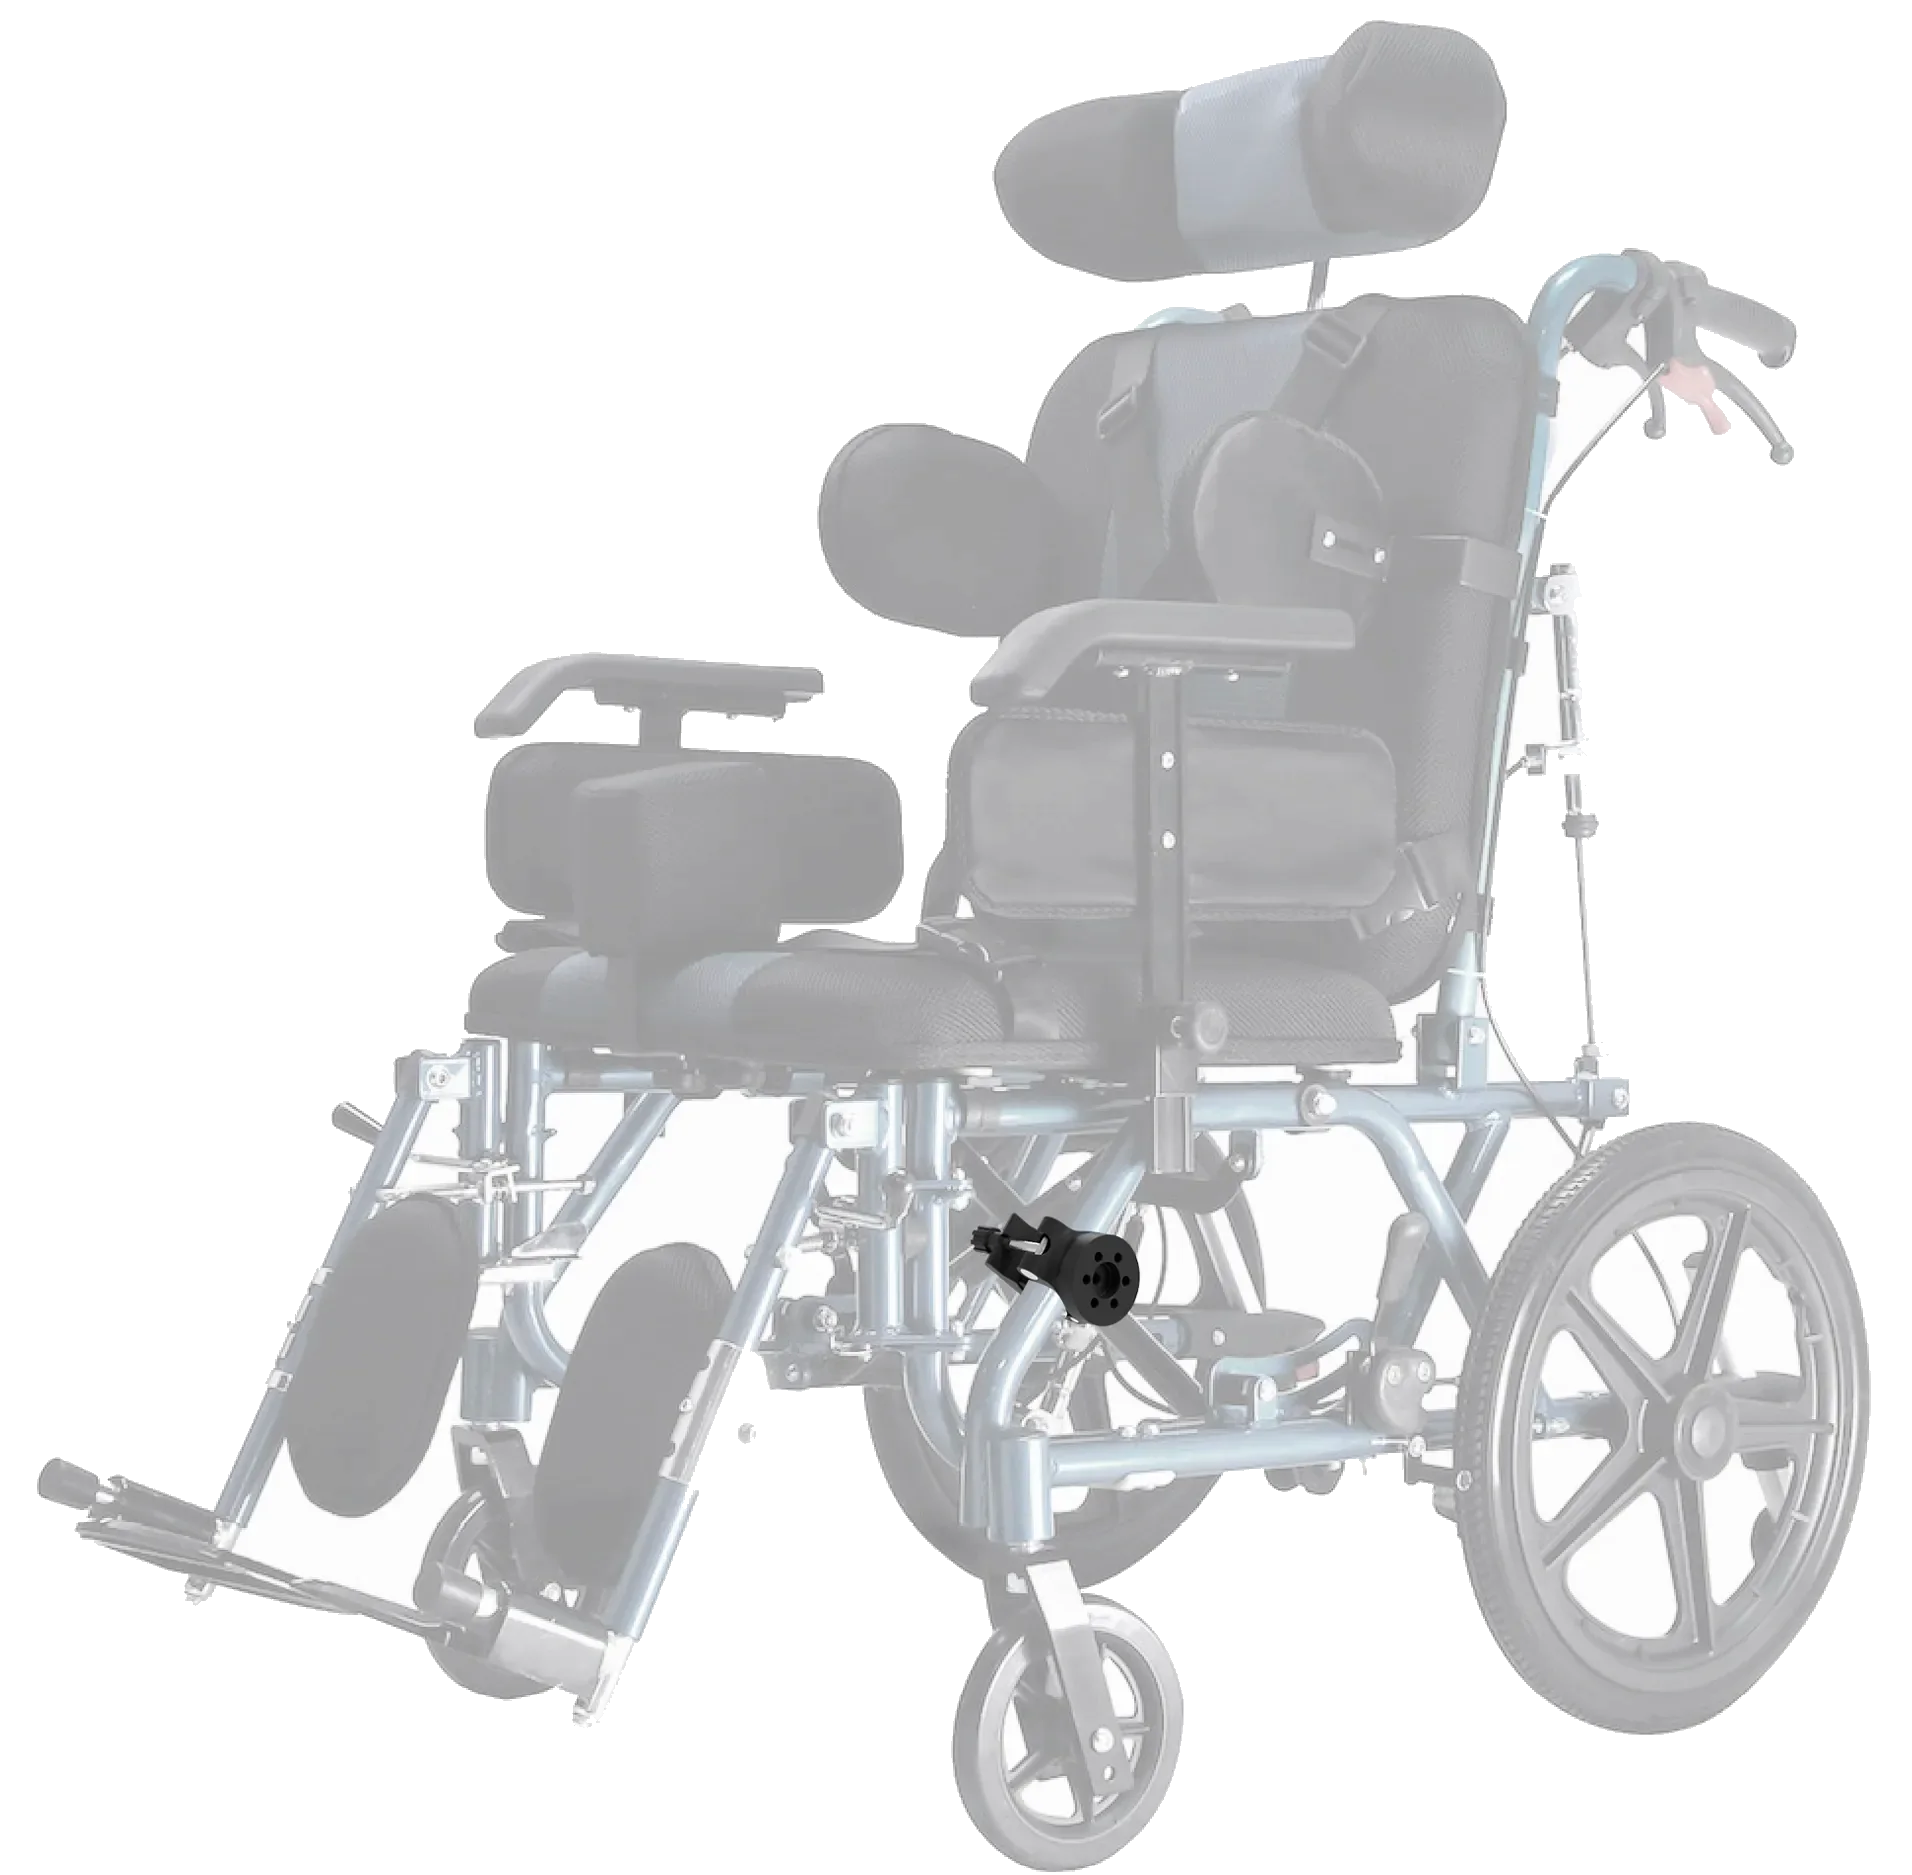
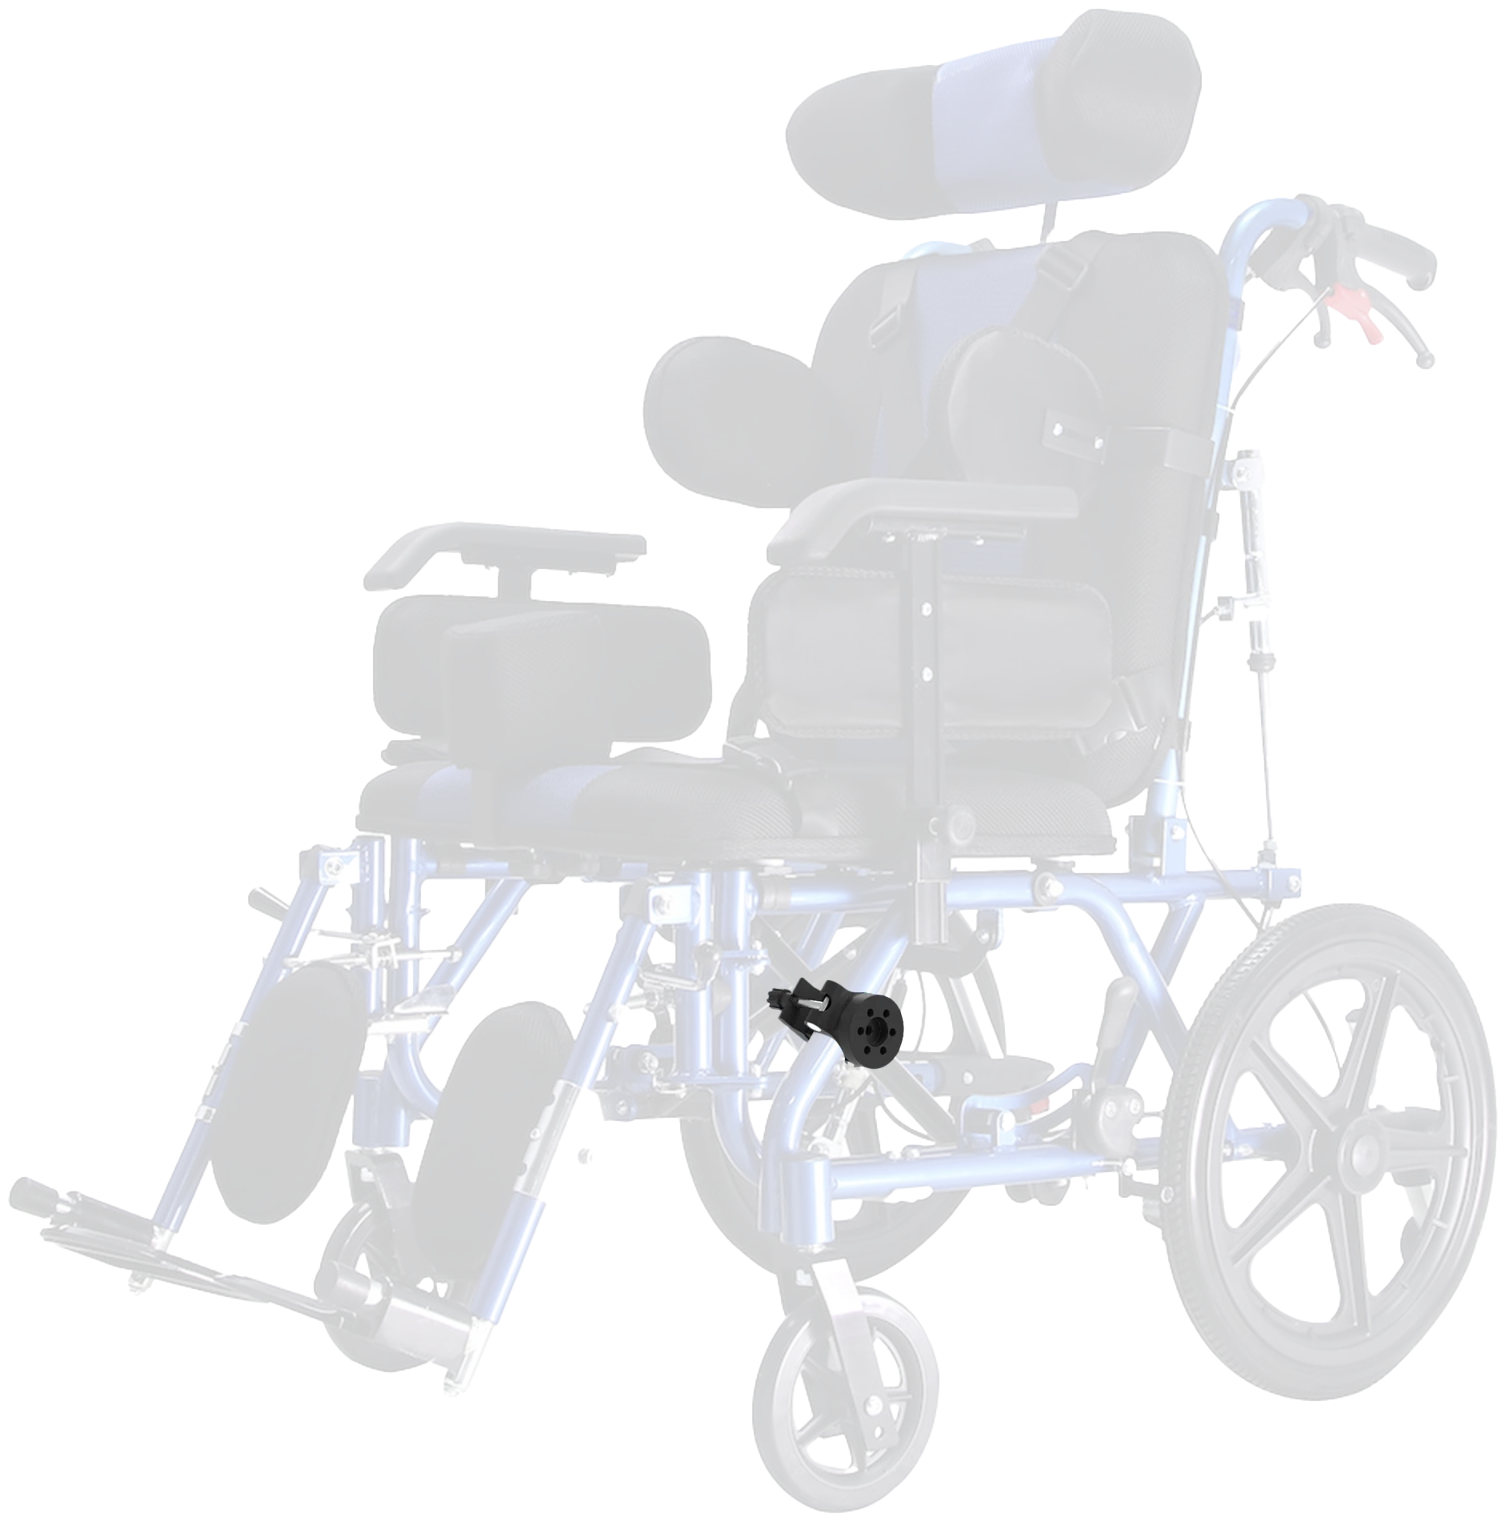
Replace the (AD)JUST renders with Joanes's keyed cut-outs.
The side, front, and back clamps and the faded blue wheelchair replace the older renders. The official white mark sits on a dark logo slide, and the cover uses the sharper side view.

diff --git a/src/sections/Adjust.tsx b/src/sections/Adjust.tsx
@@ -10,10 +10,10 @@ export function Adjust() {
       <section className="hero-bleed tone-dark adjust accent-adjust" id="adjust">
         <Photo
           className="bleed crop"
-          src="images/web/adjust-cover-tight.webp"
+          src="images/web/adjust-clamp-side-knob.webp"
           alt="(AD)JUST clamp bleeding off the right edge: a black link with a steel shaft and knurled knob."
-          width={1895}
-          height={1421}
+          width={1208}
+          height={913}
         />
         <div className="bleed-scrim" aria-hidden="true" />
         <div className="hero-copy">
@@ -68,12 +68,13 @@ export function Adjust() {
         <EdgeLabel>(AD)JUST | 13</EdgeLabel>
       </section>
 
-      <section className="slide-text mark-slide accent-adjust" id="adjust-mark">
+      <section className="slide-text mark-slide tone-dark accent-adjust" id="adjust-mark">
         <Photo
+          className="official"
           src="images/web/adjust-logo.webp"
-          alt="(AD)JUST circular mark."
-          width={525}
-          height={638}
+          alt="Official (AD)JUST mark: a white open ring in the shape of the clamp."
+          width={778}
+          height={702}
         />
         <EdgeLabel>(AD)JUST | 14</EdgeLabel>
       </section>
@@ -87,24 +88,30 @@ export function Adjust() {
             external tools.
           </p>
         </div>
-        <div className="pair">
+        <div className="clamp-trio">
           <Photo
-            src="images/web/adjust-final-design-assembly.webp"
-            alt="Assembly drawing of the (AD)JUST clamp mounted on a wheelchair tray arm."
-            width={1425}
-            height={1575}
+            src="images/web/adjust-clamp-side-knob.webp"
+            alt="(AD)JUST clamp from the side, with the knurled knob and steel rod."
+            width={1208}
+            height={913}
           />
           <Photo
-            src="images/web/adjust-grip-mechanism-variants.webp"
-            alt="Three views of the (AD)JUST grip: closed clamp, open clamp, and the knob from below."
-            width={1762}
-            height={1031}
+            src="images/web/adjust-clamp-front-open.webp"
+            alt="Front view of the open (AD)JUST grip, with the ring, pins, and knob."
+            width={1267}
+            height={1349}
+          />
+          <Photo
+            src="images/web/adjust-clamp-back-mount.webp"
+            alt="Back of the (AD)JUST clamp: the mounting plate with six holes around the centre."
+            width={1184}
+            height={802}
           />
         </div>
         <EdgeLabel>(AD)JUST | 15</EdgeLabel>
       </section>
 
-      <section className="results accent-adjust" id="adjust-renders">
+      <section className="results adjust-mounted accent-adjust" id="adjust-renders">
         <div className="copy">
           <h2>Final renders</h2>
           <p className="subtitle">Result</p>
@@ -113,27 +120,13 @@ export function Adjust() {
             holder.
           </p>
         </div>
-        <div className="result-grid">
-          <Photo
-            src="images/web/adjust-wheelchair-mounted.webp"
-            alt="The (AD)JUST link mounted on the frame of a wheelchair."
-            width={1912}
-            height={1875}
-            className="hero-shot"
-          />
-          <Photo
-            src="images/web/adjust-render-clamps.webp"
-            alt="Two black (AD)JUST clamps shown together, with knobs and steel shafts."
-            width={1500}
-            height={1462}
-          />
-          <Photo
-            src="images/web/adjust-hero-clamp.webp"
-            alt="Hero render of a single (AD)JUST clamp on a light background."
-            width={2175}
-            height={1612}
-          />
-        </div>
+        <Photo
+          src="images/web/adjust-wheelchair-mounted.webp"
+          alt="The black (AD)JUST clamp mounted on the frame of a faded light-blue wheelchair."
+          width={1506}
+          height={1521}
+          className="hero-shot"
+        />
         <EdgeLabel>(AD)JUST | 16</EdgeLabel>
       </section>
       <ProjectNav project="adjust" />

diff --git a/src/styles.css b/src/styles.css
@@ -1070,6 +1070,17 @@ blockquote footer {
   mix-blend-mode: darken;
 }
 
+.mark-slide.tone-dark.accent-adjust {
+  --accent: #7dccc2;
+  background: #1a1a1a;
+  color: #fff;
+}
+
+.mark-slide img.official {
+  width: min(280px, 46vw);
+  mix-blend-mode: normal;
+}
+
 .in-use {
   display: flex;
   min-height: 100svh;
@@ -1288,6 +1299,30 @@ blockquote footer {
 .pair img {
   width: 100%;
   height: auto;
+  object-fit: contain;
+  background: transparent;
+}
+
+.clamp-trio {
+  display: grid;
+  grid-template-columns: repeat(3, minmax(0, 1fr));
+  gap: 0.7rem;
+  align-items: end;
+}
+
+.clamp-trio img {
+  width: 100%;
+  height: auto;
+  max-height: 62vh;
+  object-fit: contain;
+  background: transparent;
+}
+
+.results.adjust-mounted .hero-shot {
+  display: block;
+  width: min(100%, 860px);
+  max-height: 68vh;
+  margin: 0.4rem auto 0;
   object-fit: contain;
   background: transparent;
 }
